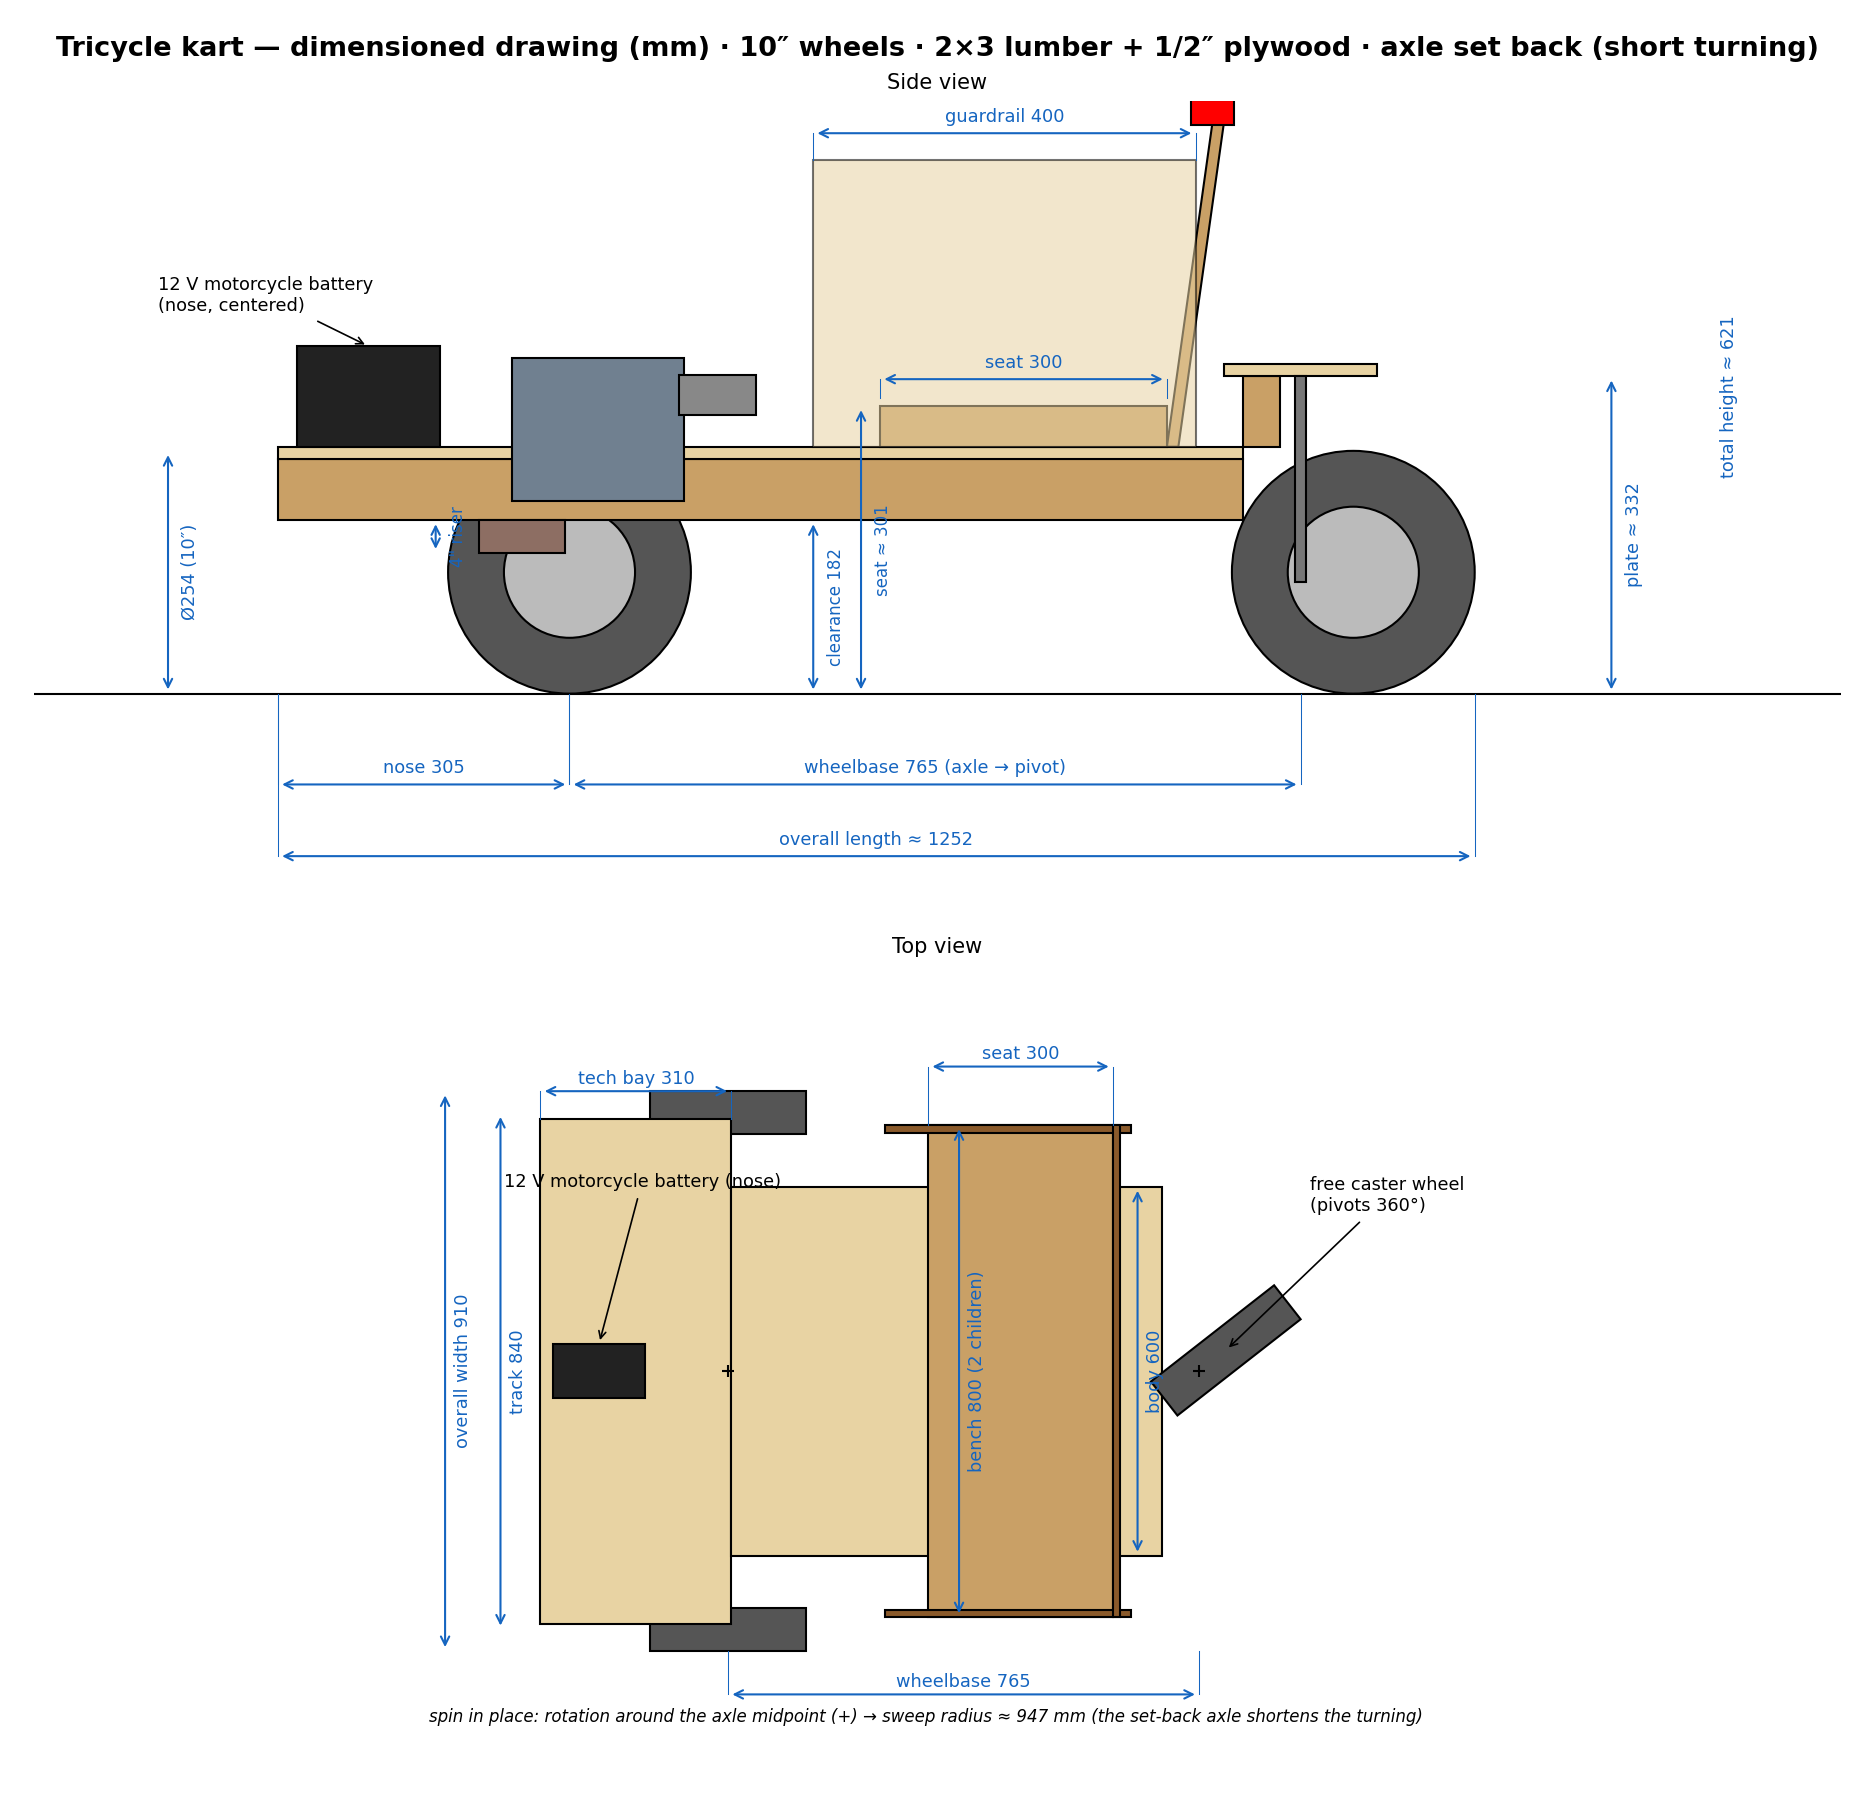
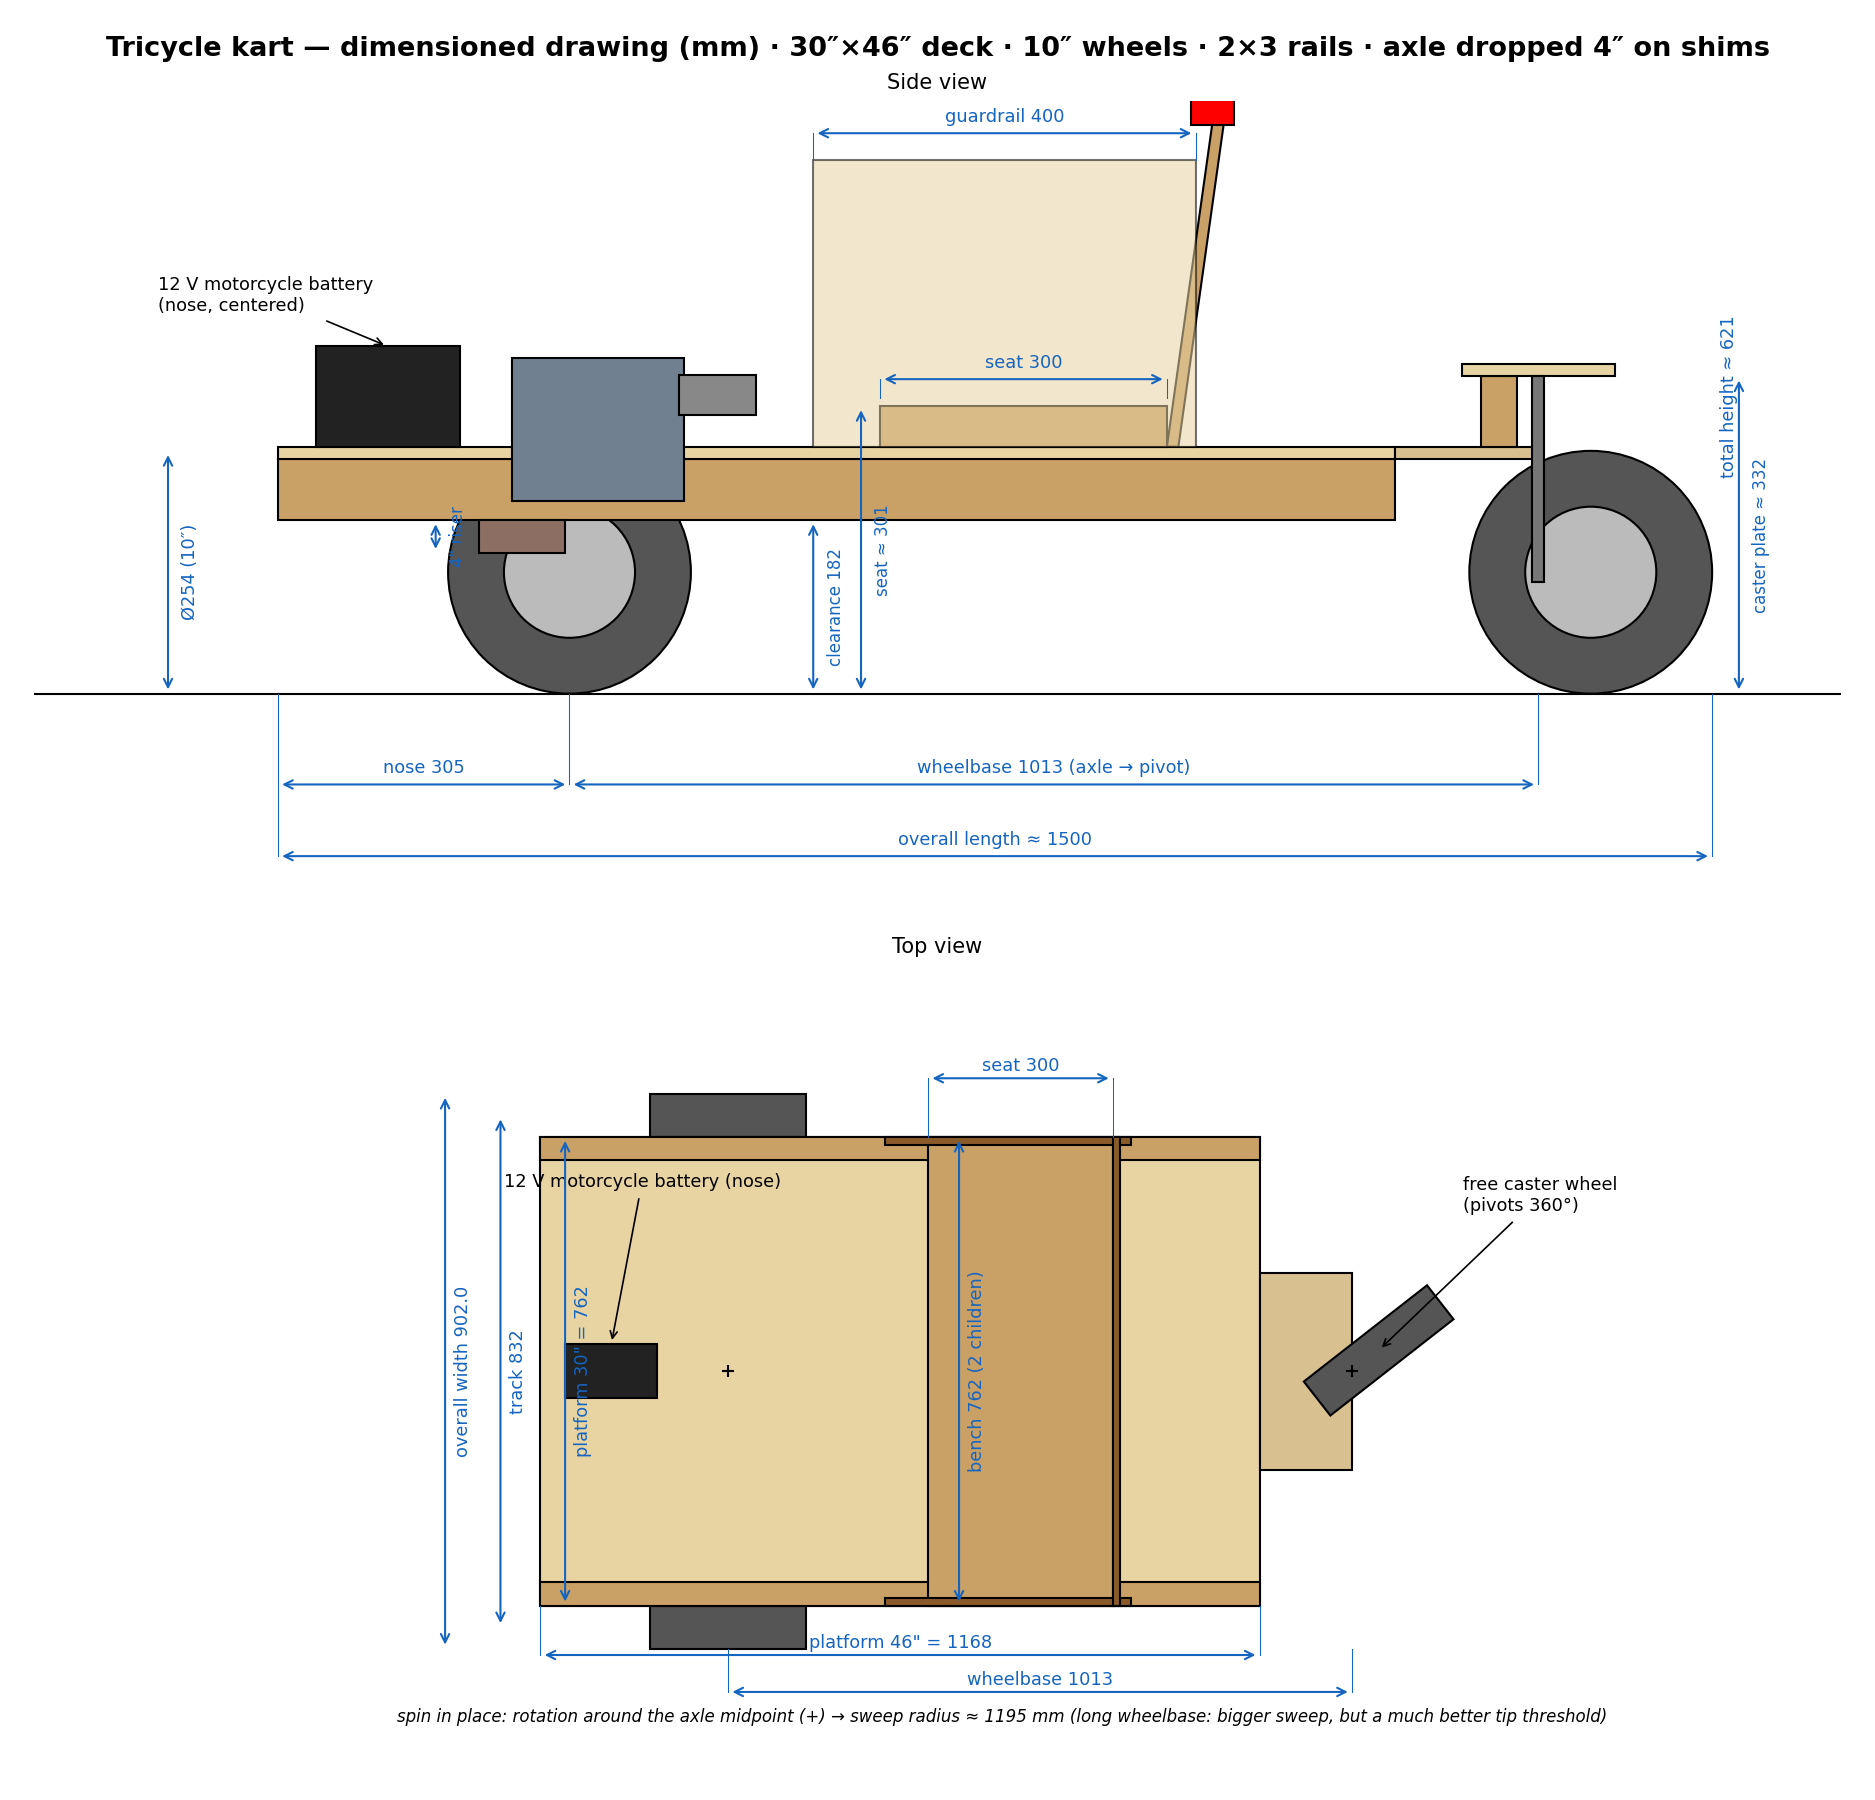
Platform 30x46 sets the geometry — and hands back what the riser cost
The deck is now the driving dimension (owner's cut): 762 x 1168 mm, axle
305 mm behind the front edge, caster on a 150 mm extension past the rear
edge. Three numbers fall out of it rather than being chosen:

  track     832 mm = platform width + wheel width — the wheels sit in
            NOTCHES cut in the deck and bear laterally on the two inboard
            2x3 rails, so the deck sets the track (was a nominal 840)
  wheelbase 1013 mm = (1168 - 305) + 150 — up from 765
  bench     762 mm inner (~381 mm/child instead of 400): the 30" cut's cost

The long wheelbase is what pays for yesterday's 4" riser: w_eff scales with
(1 - xcg/wb), so pushing the caster back moves the CG relatively closer to
the drive axle. a_tip 4.08 -> 5.12 m/s², better than the original geometry
(5.17 was with a low deck), and the sweep's worst margin goes 0.49 -> 1.51.
The price is the pivot-in-place envelope: 947 -> 1195 mm radius, so the
set-back-axle 'short turning' argument is retired from the drawing captions.

turn_alat_vmax stays capped at 0.3 even though 0.4 now passes: it clears by
only 0.35 m/s² on an ESTIMATED CG height, the default is 0.2, and nothing
needs it. Axle-drop shims, notches and the 2x3 rails are drawn.

diff --git a/doc/schematics/kart_dimensions.py b/doc/schematics/kart_dimensions.py
@@ -1,8 +1,9 @@
 # kart_dimensions.py — Dimensioned drawing of the kart (side view + top view), mm.
 # Dimensions = doc/cad/kart_concept.scad (concept). Regenerate:
 #   . .venv-schem/bin/activate && python doc/schematics/kart_dimensions.py
-# Reference: x=0 = front axle. The axle is SET BACK 325 mm into the body (nose in front):
-# the spin-in-place center moves closer to the vehicle midpoint → reduced sweep radius,
+# Reference: x=0 = front axle, 305 mm behind the front edge of the 30"x46" platform.
+# The axle hangs 4" BELOW the deck on shims (tall rear caster) and the wheels sit in
+# notches, bearing on the two inboard 2x3 rails — which is what sets the 832 mm track.
 # The 12 V battery sits in the NOSE, loading the drive axle. The deck rides on a 4" riser over
 # the front axle (tall caster) — CG height 0.38 -> 0.48 m, re-validated by the sim_main sweep.
 import matplotlib
@@ -13,12 +14,18 @@ import math
 
 # ── Dimensions (mm) — identical to the OpenSCAD concept ──
 WHEEL_D, WHEEL_W = 254, 70
-TRACK   = 840
-SHIFT   = 325                          # axle set-back into the body
-BODY0   = 20 - SHIFT                   # front of the chassis (nose): −305
-PIVOT_X = 1090 - SHIFT                 # caster wheel pivot axis: 765 (wheelbase)
+# The PLATFORM drives everything now: 30" x 46" plywood deck (owner's cut).
+PLAT_W, PLAT_L = 30 * 25.4, 46 * 25.4  # 762 x 1168 mm
+NOSE    = 305                          # front edge → axle
+TRACK   = PLAT_W + WHEEL_W             # 832 — wheels sit in NOTCHES cut in the deck and bear
+                                       # laterally on the inboard 2x3 rails: the deck sets the track
+SHIFT   = NOSE                         # axle set-back into the body
+BODY0   = -NOSE                        # front of the platform: −305
+BODY1   = PLAT_L - NOSE                # rear edge of the platform: 863
+EXT     = 150                          # caster extension BEYOND the platform
+PIVOT_X = BODY1 + EXT                  # caster pivot: 1013 (wheelbase)
 TRAIL   = 55                           # caster wheel trail
-CLEAR, LU_H, PLY = 80, 64, 12.7
+CLEAR, LU_H, LU_W, PLY = 80, 64, 38, 12.7
 RISER   = 101.6                        # 4" block between the axle carriers and the frame:
                                        # lifts the deck so the tall caster needs only a small
                                        # tail rise instead of a 188 mm one. ⚠ CG rises with it.
@@ -32,13 +39,14 @@ CASTER_PLATE = 332                     # SET BY THE CASTER (10" wheel + fork + s
 AXLE_Z = WHEEL_D / 2
 CASTER_WHEEL_X = PIVOT_X + TRAIL       # 820 (fork aligned)
 TOTAL_L = (CASTER_WHEEL_X + WHEEL_D / 2) - BODY0            # ≈ 1252
-SEAT_X0, SEAT_X1 = 650 - SHIFT, 950 - SHIFT                 # seat: 325..625
-GUARD_X0 = 580 - SHIFT                                      # guardrail: 255..655
-BACK_X = 950 - SHIFT                                        # seatback foot: 625
-BAT_X0, BAT_L, BAT_W, BAT_H = 40 - SHIFT, 150, 88, 105      # 12 V motorcycle battery (nose, centered)
-BODY_W, SEAT_W, BAY_W = 600, 800, 820
+SEAT_X0, SEAT_X1 = 325, 625                                 # seat, unchanged w.r.t. the axle
+GUARD_X0 = 255                                              # guardrail: 255..655
+BACK_X = 625                                                # seatback foot
+BAT_X0, BAT_L, BAT_W, BAT_H = -265, 150, 88, 105            # 12 V motorcycle battery (nose, centered)
+BODY_W = SEAT_W = BAY_W = PLAT_W       # one deck, full width throughout (bench 762 inner:
+                                       # ~381 mm/child instead of 400 — the 30" cut's cost)
 OVERALL_W = TRACK + WHEEL_W            # 910
-SWEEP_R = CASTER_WHEEL_X + WHEEL_D / 2                      # sweep radius when pivoting ≈ 947
+SWEEP_R = CASTER_WHEEL_X + WHEEL_D / 2                      # sweep radius when pivoting ≈ 1195
 
 WOOD, PLYC, DARK, ACC = '#c9a066', '#e8d3a3', '#555555', '#1565c0'
 
@@ -57,7 +65,7 @@ def dim(ax, p0, p1, txt, off=0.0, vert=False, fs=8.5):
         ax.text((x0 + x1) / 2, y0 + 12, txt, fontsize=fs, color=ACC, ha='center')
 
 fig, (ax1, ax2) = plt.subplots(2, 1, figsize=(12.5, 12))
-fig.suptitle("Tricycle kart — dimensioned drawing (mm) · 10″ wheels · 2×3 lumber + 1/2″ plywood · axle set back (short turning)",
+fig.suptitle("Tricycle kart — dimensioned drawing (mm) · 30″×46″ deck · 10″ wheels · 2×3 rails · axle dropped 4″ on shims",
              fontsize=13, fontweight='bold')
 
 # ═════════════════ SIDE VIEW ═════════════════
@@ -68,8 +76,9 @@ ax.add_patch(Circle((0, AXLE_Z), WHEEL_D / 2, fc=DARK, ec='k'))            # fro
 ax.add_patch(Circle((0, AXLE_Z), WHEEL_D * 0.27, fc='#bbbbbb', ec='k'))
 ax.add_patch(Circle((CASTER_WHEEL_X, AXLE_Z), WHEEL_D / 2, fc=DARK, ec='k'))  # caster wheel
 ax.add_patch(Circle((CASTER_WHEEL_X, AXLE_Z), WHEEL_D * 0.27, fc='#bbbbbb', ec='k'))
-ax.add_patch(Rectangle((BODY0, CLEAR + RISER), 1010, LU_H, fc=WOOD, ec='k'))   # stringer (on the riser)
-ax.add_patch(Rectangle((BODY0, FLOOR_Z), 1010, PLY, fc=PLYC, ec='k'))      # floor
+ax.add_patch(Rectangle((BODY0, CLEAR + RISER), PLAT_L, LU_H, fc=WOOD, ec='k'))  # 2x3 rails (on the shims)
+ax.add_patch(Rectangle((BODY0, FLOOR_Z), PLAT_L, PLY, fc=PLYC, ec='k'))    # 30"x46" platform
+ax.add_patch(Rectangle((BODY1, FLOOR_Z), EXT, PLY, fc='#d8c090', ec='k'))  # caster extension
 ax.add_patch(Rectangle((BAT_X0, FLOOR_TOP), BAT_L, BAT_H, fc='#222222', ec='k'))  # 12 V battery (nose)
 ax.add_patch(Rectangle((SEAT_X0, FLOOR_TOP), 300, 30 + PLY, fc=WOOD, ec='k'))  # seat
 ax.add_patch(Polygon([(BACK_X, FLOOR_TOP), (BACK_X + 340 * math.cos(math.radians(82)), BACK_TOP),
@@ -87,14 +96,14 @@ ax.add_patch(Rectangle((be_x - 22, BACK_TOP), 45, 26, fc='red', ec='k'))        
 ax.annotate("12 V motorcycle battery\n(nose, centered)", xy=(BAT_X0 + BAT_L / 2, FLOOR_TOP + BAT_H),
             xytext=(-430, 400), fontsize=8.5, arrowprops=dict(arrowstyle='->', lw=0.8))
 
-dim(ax, (BODY0, 0), (0, 0), "nose 305", off=-95)
-dim(ax, (0, 0), (PIVOT_X, 0), "wheelbase 765 (axle → pivot)", off=-95)
+dim(ax, (BODY0, 0), (0, 0), f"nose {NOSE}", off=-95)
+dim(ax, (0, 0), (PIVOT_X, 0), f"wheelbase {PIVOT_X:.0f} (axle → pivot)", off=-95)
 dim(ax, (BODY0, 0), (CASTER_WHEEL_X + WHEEL_D / 2, 0), f"overall length ≈ {TOTAL_L:.0f}", off=-170)
 dim(ax, (-420, 0), (-420, WHEEL_D), "Ø254 (10″)", off=0, vert=True)
 dim(ax, (255, 0), (255, CLEAR + RISER), f"clearance {CLEAR+RISER:.0f}", off=0, vert=True, fs=8)
 dim(ax, (-140, AXLE_Z + 20), (-140, CLEAR + RISER), '4" riser', off=0, vert=True, fs=8)
 dim(ax, (305, 0), (305, SEAT_TOP), f"seat ≈ {SEAT_TOP:.0f}", off=0, vert=True, fs=8)
-dim(ax, (1090, 0), (1090, CASTER_PLATE), "plate ≈ 332", off=0, vert=True)
+dim(ax, (PIVOT_X + 210, 0), (PIVOT_X + 210, CASTER_PLATE), "caster plate ≈ 332", off=0, vert=True, fs=8)
 dim(ax, (1190, 0), (1190, BACK_TOP + 26), f"total height ≈ {BACK_TOP + 26:.0f}", off=0, vert=True)
 dim(ax, (GUARD_X0, GUARD_TOP), (GUARD_X0 + 400, GUARD_TOP), "guardrail 400", off=28)
 dim(ax, (SEAT_X0, SEAT_TOP + 8), (SEAT_X1, SEAT_TOP + 8), "seat 300", off=20)
@@ -106,8 +115,12 @@ ax = ax2
 ax.set_title("Top view", fontsize=10)
 for sy in (-1, 1):
     ax.add_patch(Rectangle((-WHEEL_D / 2, sy * TRACK / 2 - WHEEL_W / 2), WHEEL_D, WHEEL_W, fc=DARK, ec='k'))
-ax.add_patch(Rectangle((BODY0, -BAY_W / 2), 310, BAY_W, fc=PLYC, ec='k'))        # technical bay (nose)
-ax.add_patch(Rectangle((BODY0 + 310, -BODY_W / 2), 700, BODY_W, fc=PLYC, ec='k'))  # cabin
+ax.add_patch(Rectangle((BODY0, -PLAT_W / 2), PLAT_L, PLAT_W, fc=PLYC, ec='k'))   # 30"x46" platform
+ax.add_patch(Rectangle((BODY1, -160), EXT, 320, fc='#d8c090', ec='k'))           # caster extension
+for sy in (-1, 1):   # the two inboard 2x3 rails the wheels bear against
+    ax.add_patch(Rectangle((BODY0, sy * PLAT_W / 2 - (LU_W if sy > 0 else 0)), PLAT_L, LU_W,
+                           fc=WOOD, ec='k'))
+
 ax.add_patch(Rectangle((BAT_X0, -BAT_W / 2), BAT_L, BAT_W, fc='#222222', ec='k'))  # 12 V battery
 ax.add_patch(Rectangle((SEAT_X0, -SEAT_W / 2), 300, SEAT_W, fc=WOOD, ec='k'))    # bench (overhanging)
 for sy in (-1, 1):
@@ -125,16 +138,16 @@ ax.annotate("12 V motorcycle battery (nose)", xy=(BAT_X0 + BAT_L / 2, BAT_W / 2)
             xytext=(BODY0 - 60, 300), fontsize=8.5, arrowprops=dict(arrowstyle='->', lw=0.8))
 ax.text((BODY0 + SWEEP_R) / 2, -570,
         "spin in place: rotation around the axle midpoint (+) → sweep radius "
-        f"≈ {SWEEP_R:.0f} mm (the set-back axle shortens the turning)",
+        f"≈ {SWEEP_R:.0f} mm (long wheelbase: bigger sweep, but a much better tip threshold)",
         fontsize=8, style='italic', ha='center')
 
-dim(ax, (-370, -TRACK / 2), (-370, TRACK / 2), "track 840", off=0, vert=True)
+dim(ax, (-370, -TRACK / 2), (-370, TRACK / 2), f"track {TRACK:.0f}", off=0, vert=True)
 dim(ax, (-460, -TRACK / 2 - WHEEL_W / 2), (-460, TRACK / 2 + WHEEL_W / 2), f"overall width {OVERALL_W}", off=0, vert=True)
-dim(ax, (SEAT_X0 + 50, -SEAT_W / 2), (SEAT_X0 + 50, SEAT_W / 2), "bench 800 (2 children)", off=0, vert=True)
-dim(ax, (665, -BODY_W / 2), (665, BODY_W / 2), "body 600", off=0, vert=True)
-dim(ax, (BODY0, BAY_W / 2), (BODY0 + 310, BAY_W / 2), "tech bay 310", off=45)
+dim(ax, (SEAT_X0 + 50, -SEAT_W / 2), (SEAT_X0 + 50, SEAT_W / 2), f"bench {SEAT_W:.0f} (2 children)", off=0, vert=True)
+dim(ax, (BODY0, -PLAT_W / 2), (BODY1, -PLAT_W / 2), f'platform 46" = {PLAT_L:.0f}', off=-80)
+dim(ax, (BODY0 + 40, -PLAT_W / 2), (BODY0 + 40, PLAT_W / 2), f'platform 30" = {PLAT_W:.0f}', off=0, vert=True)
 dim(ax, (SEAT_X0, SEAT_W / 2), (SEAT_X1, SEAT_W / 2), "seat 300", off=95)
-dim(ax, (0, -TRACK / 2 - WHEEL_W / 2), (PIVOT_X, -TRACK / 2 - WHEEL_W / 2), "wheelbase 765", off=-70)
+dim(ax, (0, -TRACK / 2 - WHEEL_W / 2), (PIVOT_X, -TRACK / 2 - WHEEL_W / 2), f"wheelbase {PIVOT_X:.0f}", off=-70)
 ax.set_xlim(-620, 1300); ax.set_ylim(-660, 660)
 ax.set_aspect('equal'); ax.axis('off')
 

diff --git a/firmware/test_host/sim/vehicle.hpp b/firmware/test_host/sim/vehicle.hpp
@@ -27,14 +27,19 @@ struct VehicleParams
     float mass_kart_kg = 32.f;  // wood chassis + motors + battery + electronics
     float mass_pass_kg = 66.f;  // PASSENGERS: 2 children ~10 y.o. (≈ 33 kg each)
     float mass() const { return mass_kart_kg + mass_pass_kg; }
-    float track_m   = 0.84f;    // front track width (centers of the drive wheels)
-    float wb_m      = 0.765f;   // wheelbase axle → caster wheel pivot
+    float track_m   = 0.832f;   // front track: set by the 30" platform + wheel width — the
+                                // wheels sit in notches and bear on the inboard 2x3 rails
+    float wb_m      = 1.013f;   // wheelbase axle → caster pivot: (46" platform − 12" nose)
+                                // + 150 mm caster extension. Long wheelbase = the CG sits
+                                // relatively closer to the drive axle = more effective
+                                // half-track, which is what pays back the 4" riser.
     float iz_kgm2   = 12.f;     // yaw inertia (estimated: m·(L/2)²·k)
     float xcg_m     = 0.40f;    // CG behind the front axle (battery back in the NOSE, 2026-08-06)
     // Loaded CG height. The deck rides on a 4" (102 mm) riser over the front axle so the tall
     // rear caster fits under a FLAT tail instead of a raised one — everything on the frame
     // (children included) goes up with it: 0.38 → 0.48 m. That is the dominant rollover term
-    // (a_tip ∝ 1/h): 5.17 → 4.08 m/s², −21 %. Re-validated by the sweep in sim_main.cpp.
+    // (a_tip ∝ 1/h): 5.17 → 4.08 m/s², −21 %. The longer platform hands that back (final
+    // geometry: 5.12 m/s²). Re-validated by the sweep in sim_main.cpp.
     float hcg_m     = 0.482f;
     float ycg_m     = 0.f;      // LATERAL offset of the CG (+ = left) — asymmetric load
 
